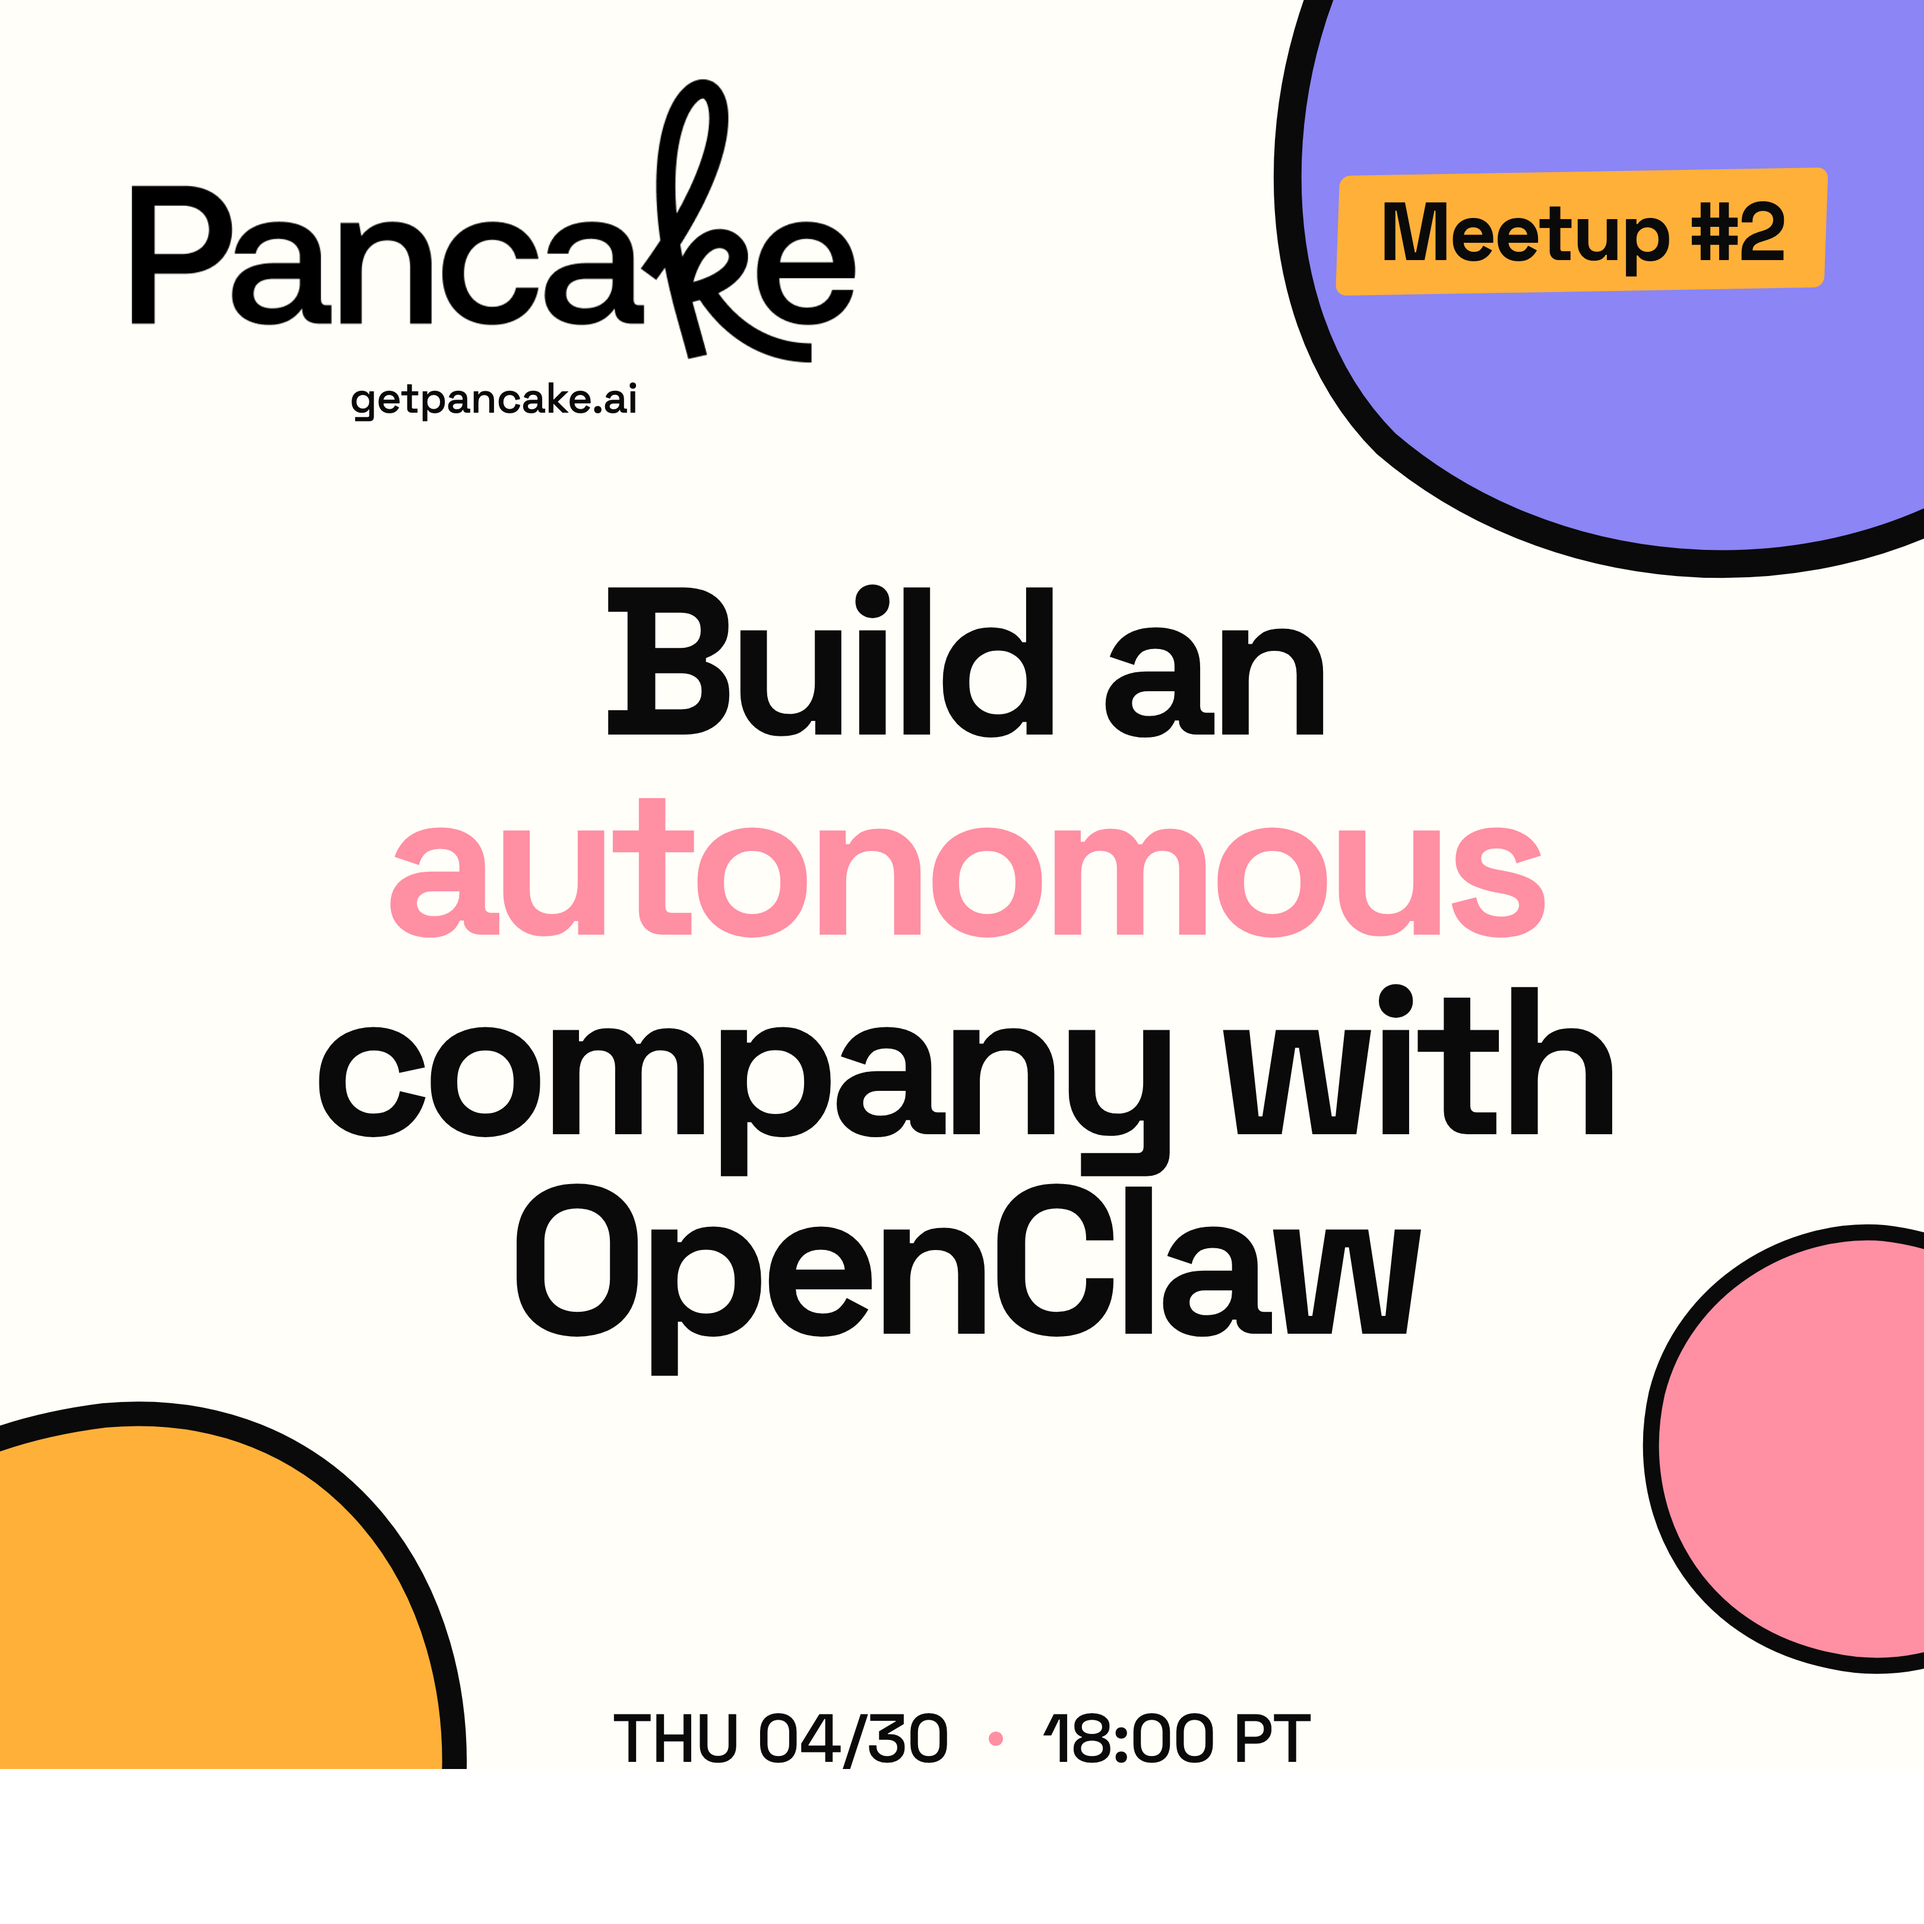
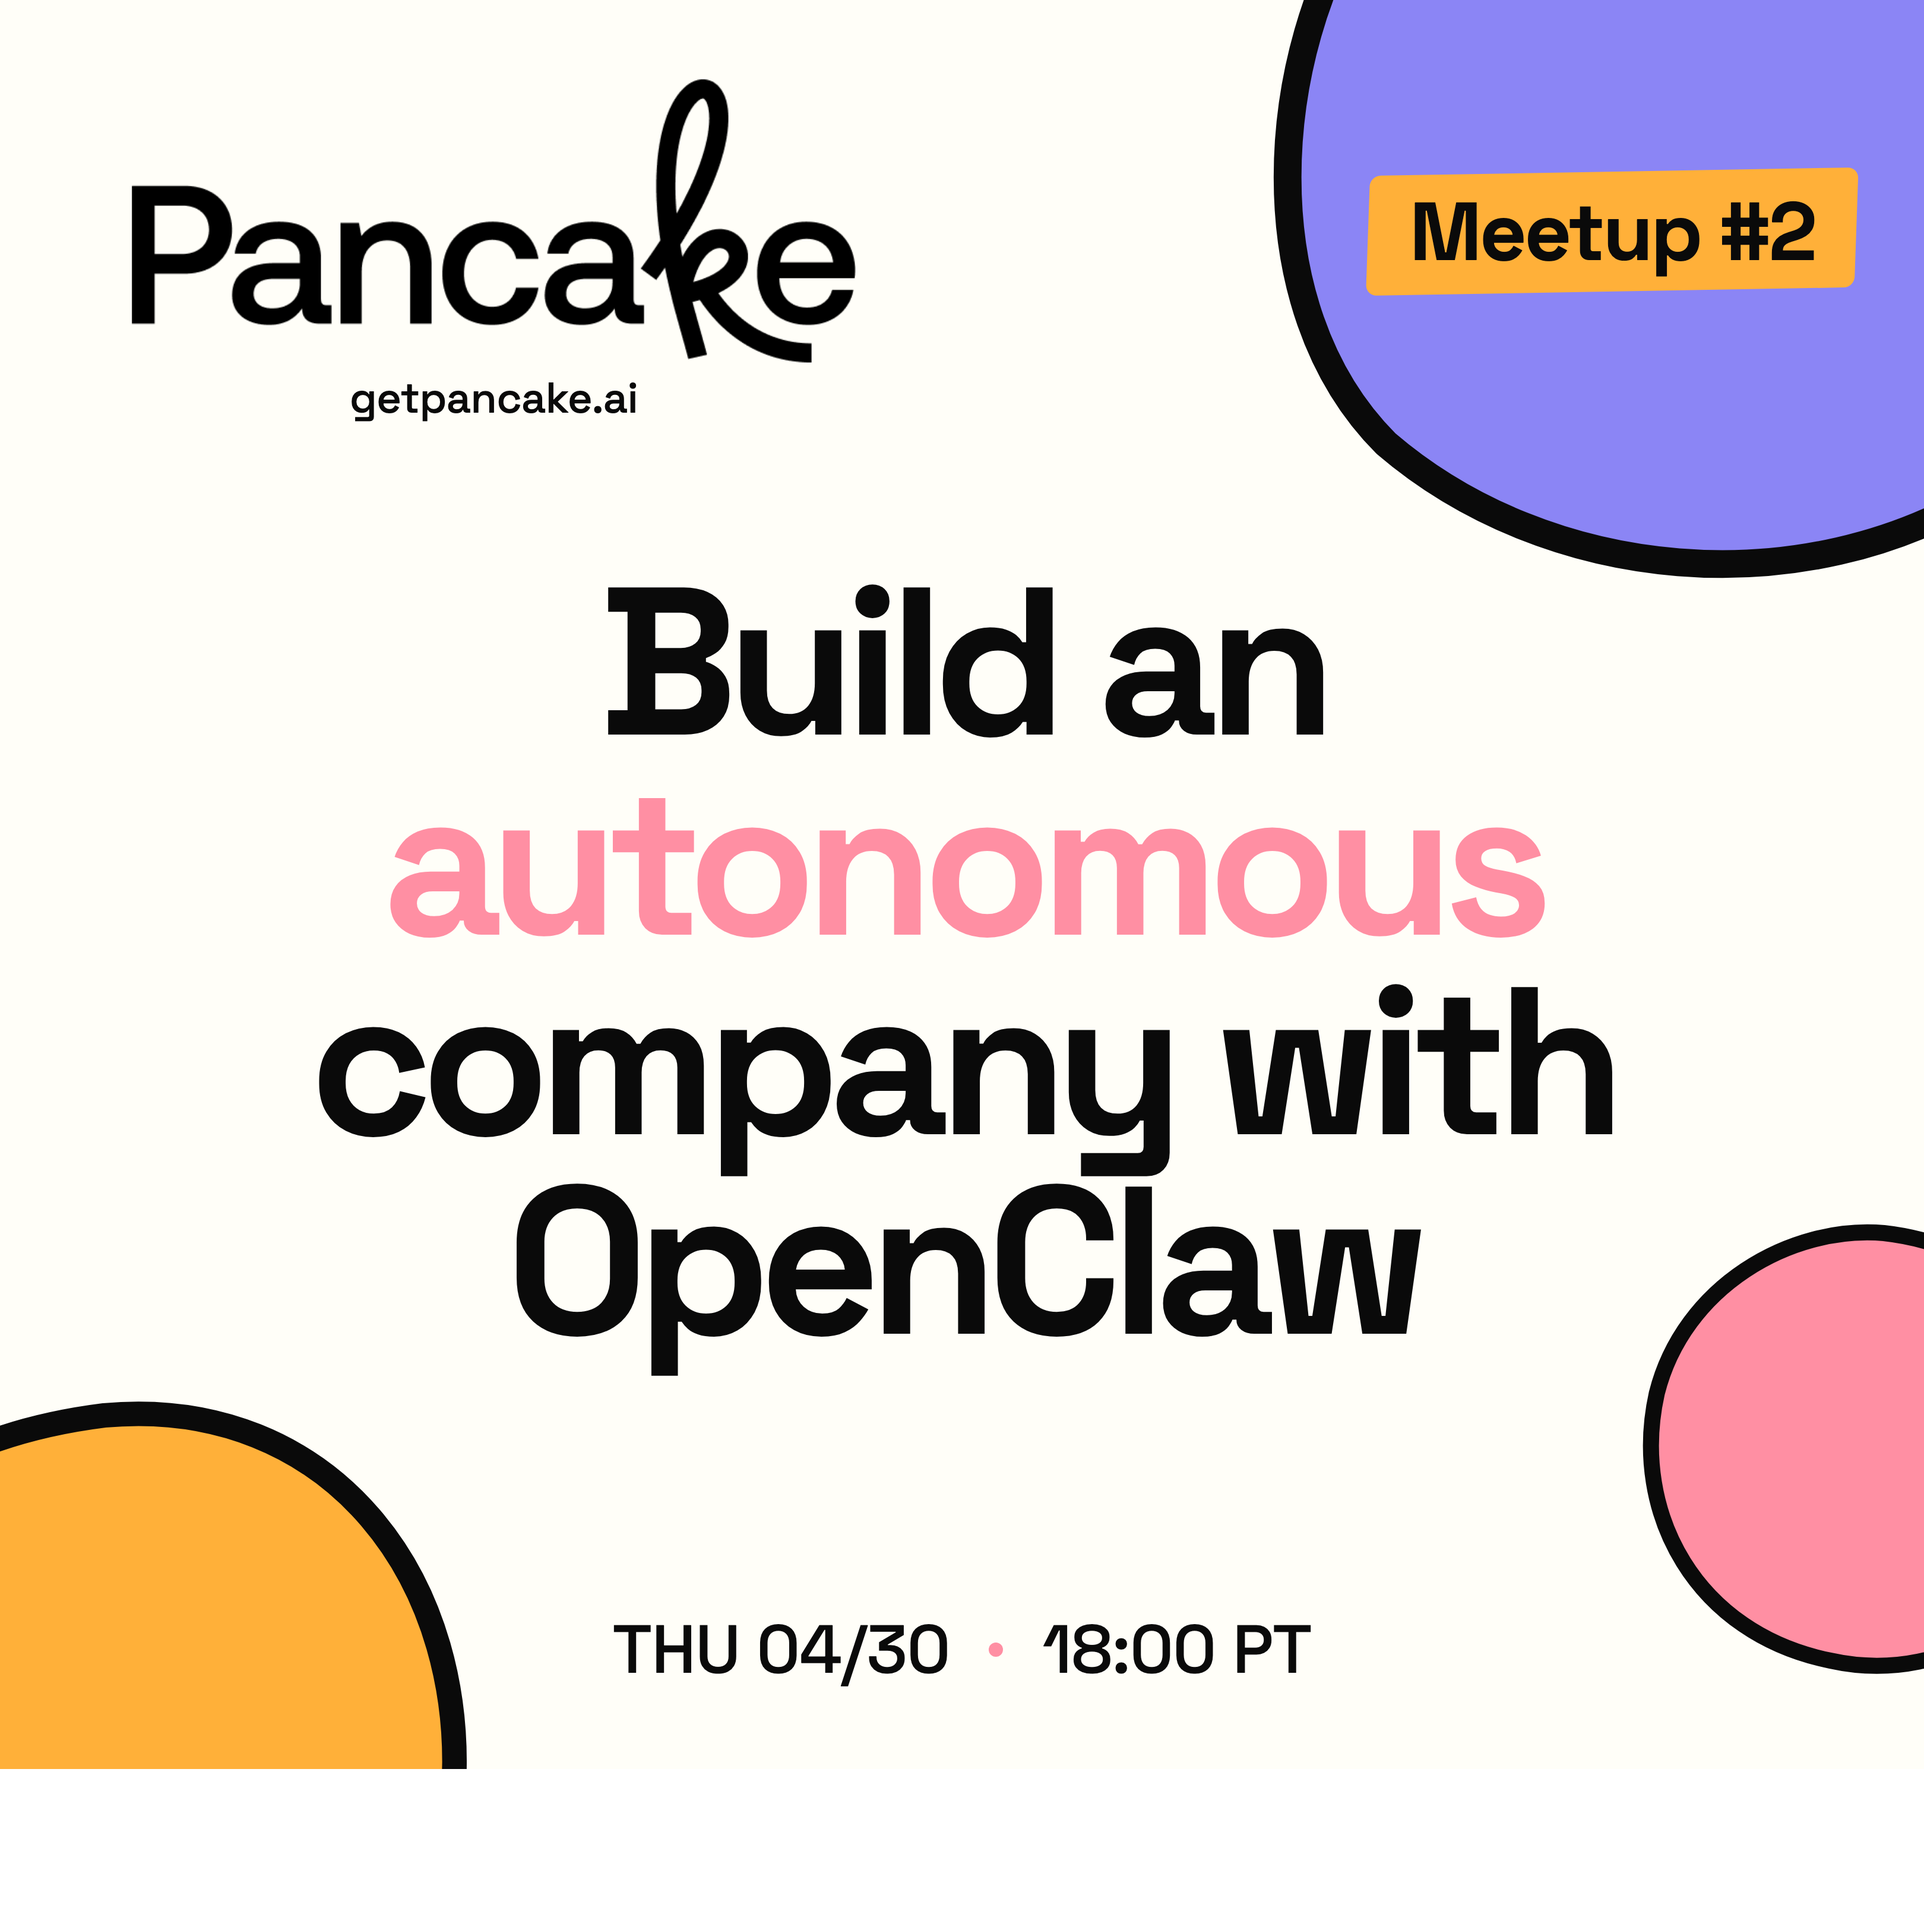
Luma visual: nudge Meetup #2 right, lift footer date/time
Made-with: Cursor

Changed region(s): [[0.6858, 0.0623, 0.9664, 0.1559], [0.3117, 0.8417, 0.4988, 0.9352], [0.5299, 0.8417, 0.6858, 0.9352]]

diff --git a/public/luma-visual.html b/public/luma-visual.html
@@ -215,7 +215,7 @@
       .edition {
         position: absolute;
         top: 130px;
-        left: 888px;
+        left: 905px;
         transform: translate(-50%, -50%);
         z-index: 9;
         font-family: var(--font-display);
@@ -278,7 +278,7 @@
         position: absolute;
         left: 0;
         right: 0;
-        bottom: 80px;
+        bottom: 130px;
         z-index: 9;
         display: flex;
         align-items: center;
